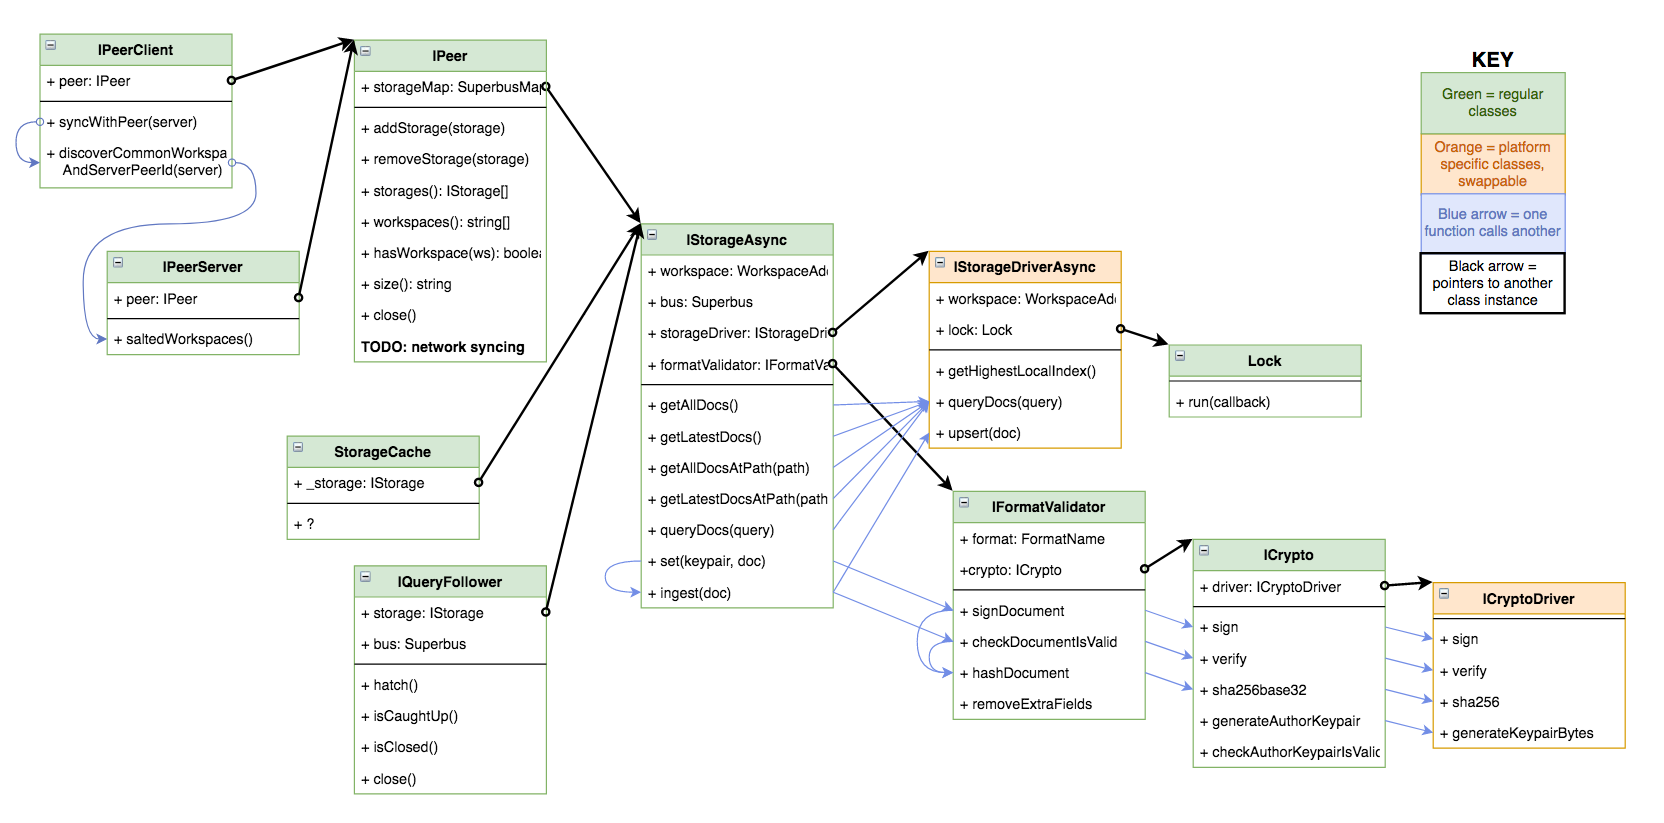
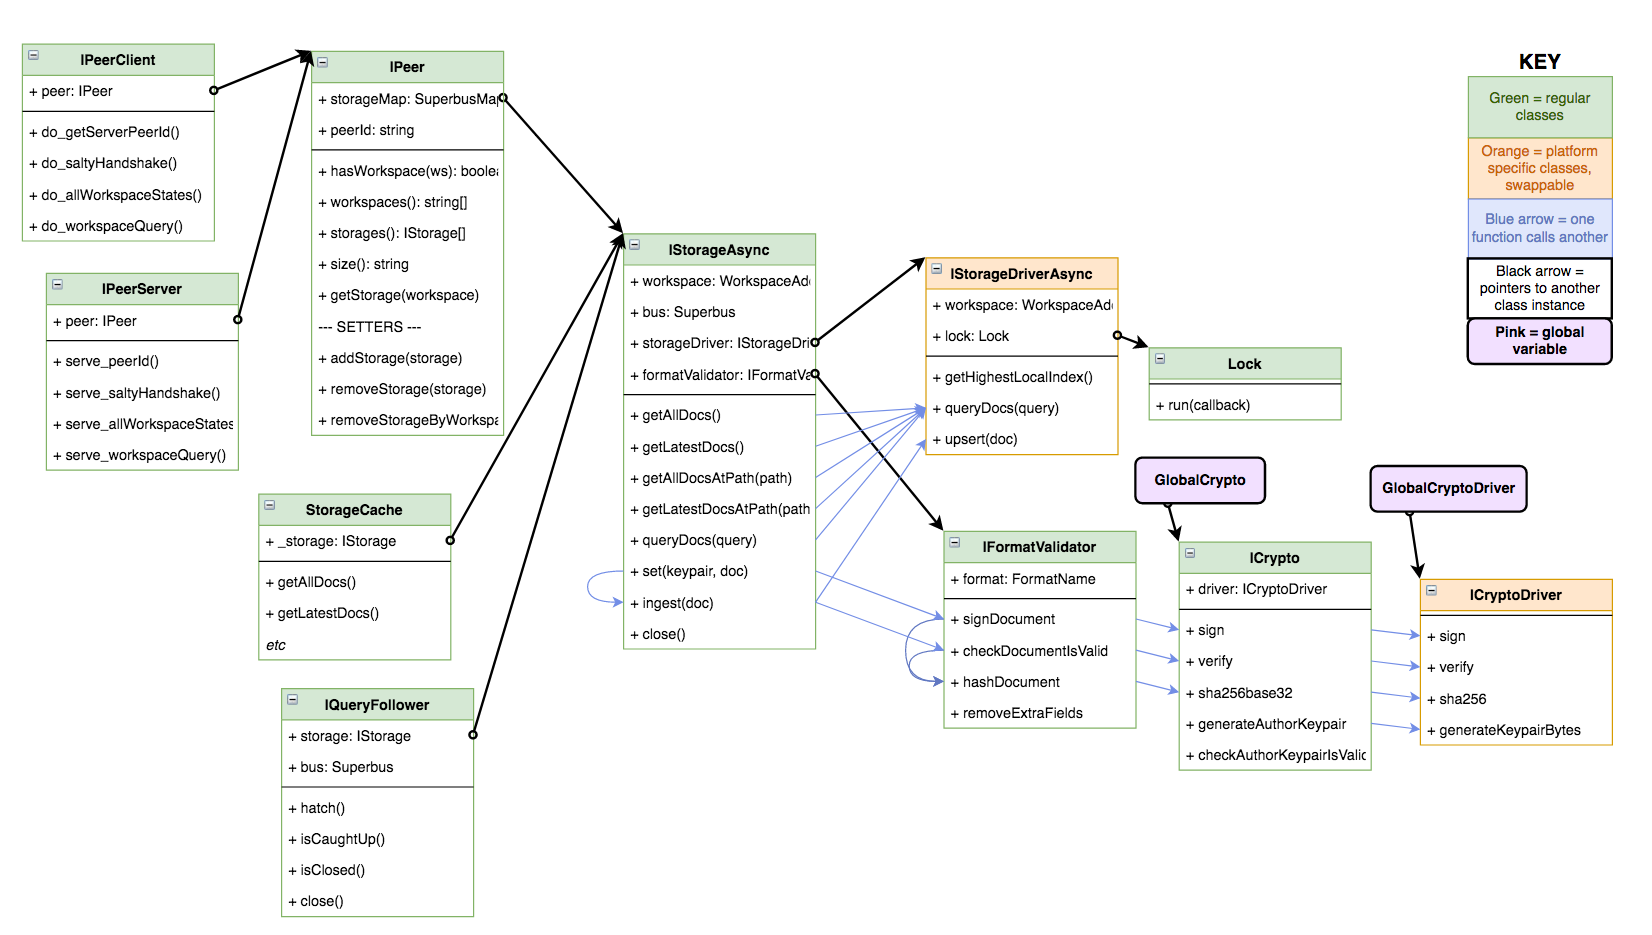
Update class diagram and depchart generation code

diff --git a/src/example-app.ts b/src/example-app.ts
@@ -17,9 +17,6 @@ import {
     GlobalCrypto, setGlobalCryptoDriver,
 } from './crypto/crypto';
 import {
-    CryptoDriverTweetnacl,
-} from './crypto/crypto-driver-tweetnacl';
-import {
     QueryFollower,
 } from './query-follower/query-follower';
 import {
@@ -57,8 +54,8 @@ let main = async () => {
     loggerMain.info('-----------\\')
     loggerMain.info('setup')
     loggerMain.info('workspace =', workspace);
-    loggerMain.info('set global crypto driver')
-    setGlobalCryptoDriver(CryptoDriverTweetnacl);
+    //loggerMain.info('set global crypto driver')
+    //setGlobalCryptoDriver(CryptoDriverTweetnacl);  // this is the default
     loggerMain.info('instantiate validator, storageDriver, and storage')
     let validator = new FormatValidatorEs4();
     let storageDriver = new StorageDriverAsyncMemory(workspace);
